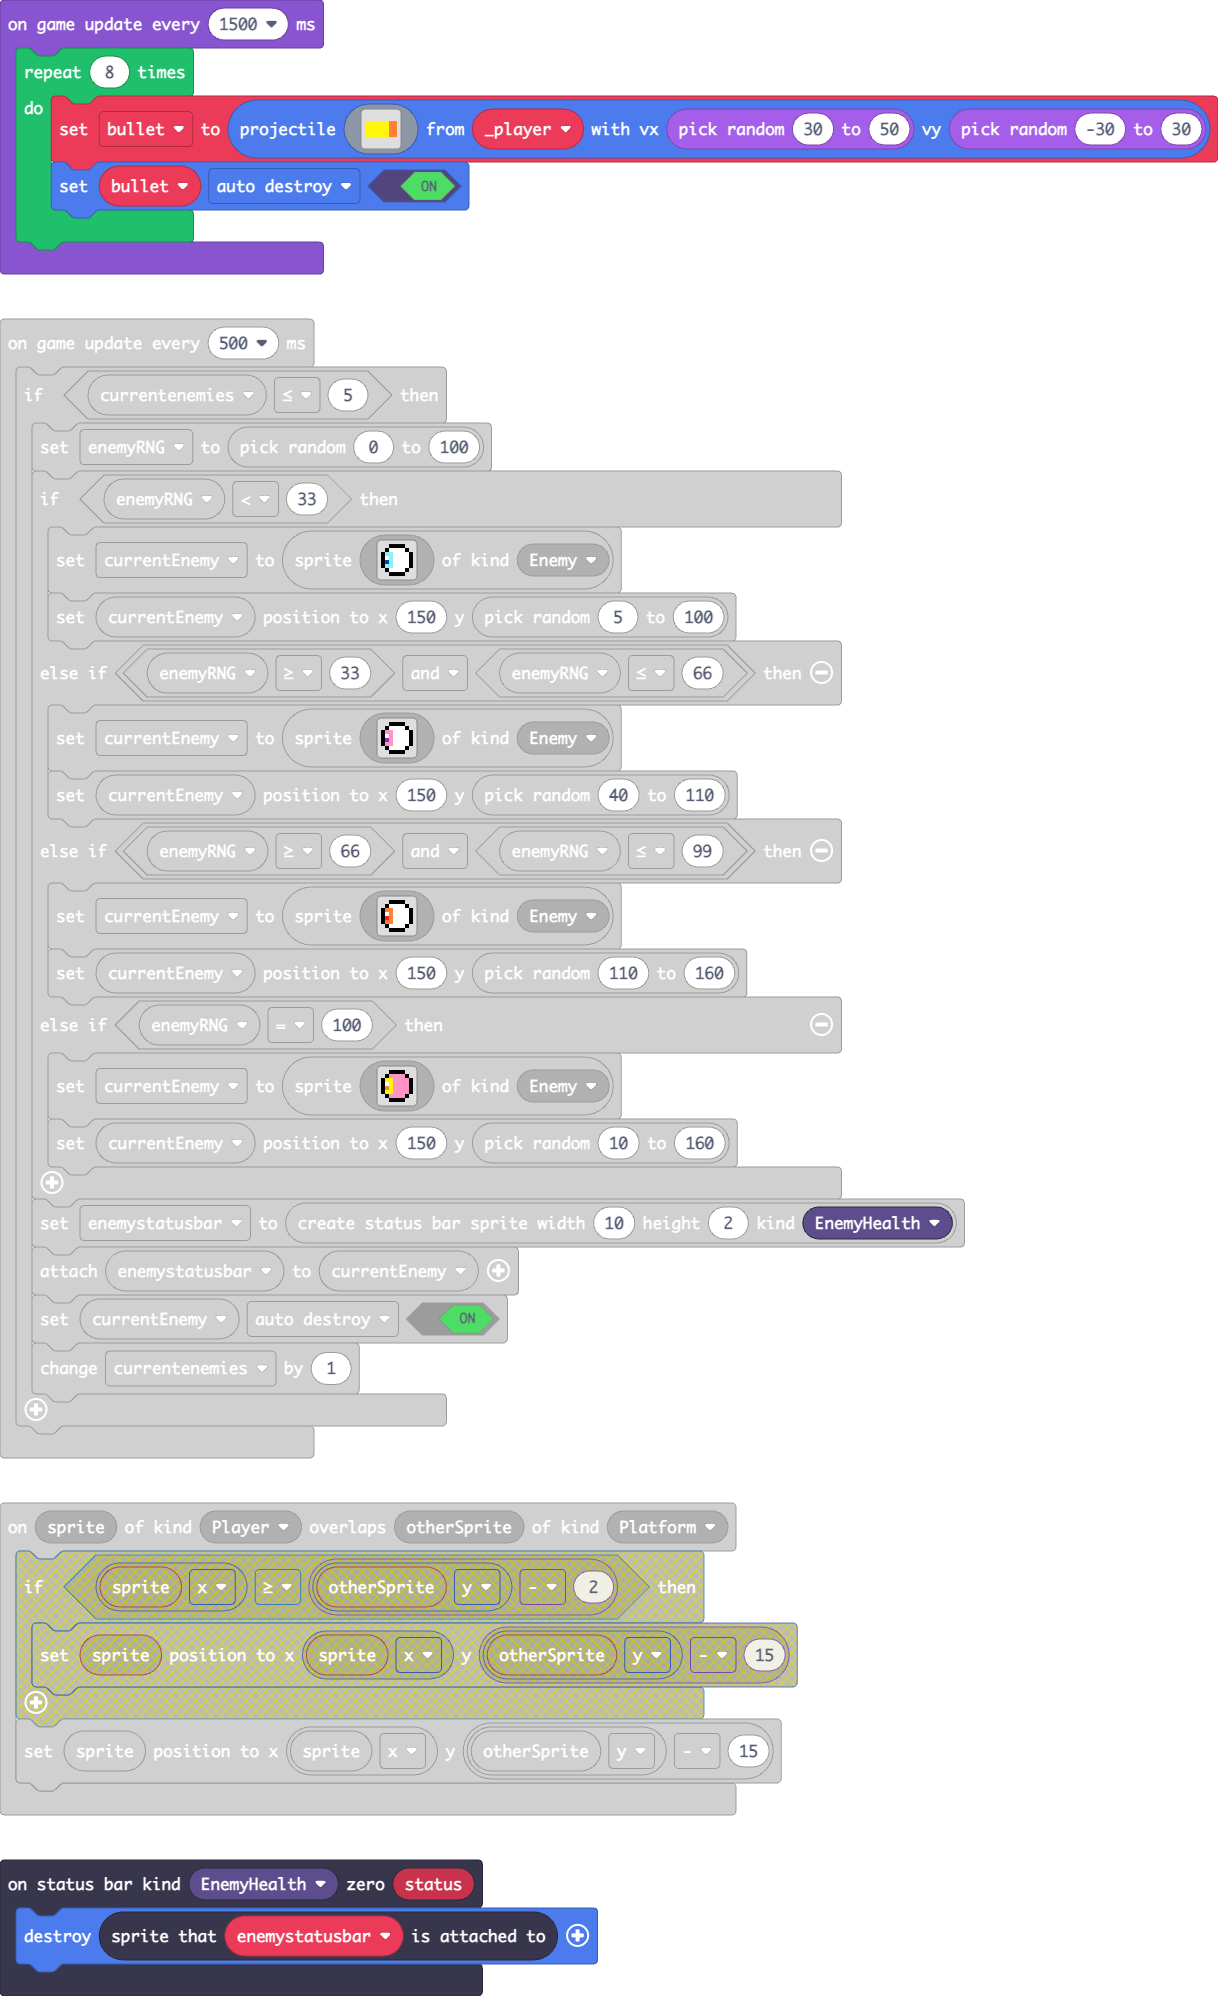
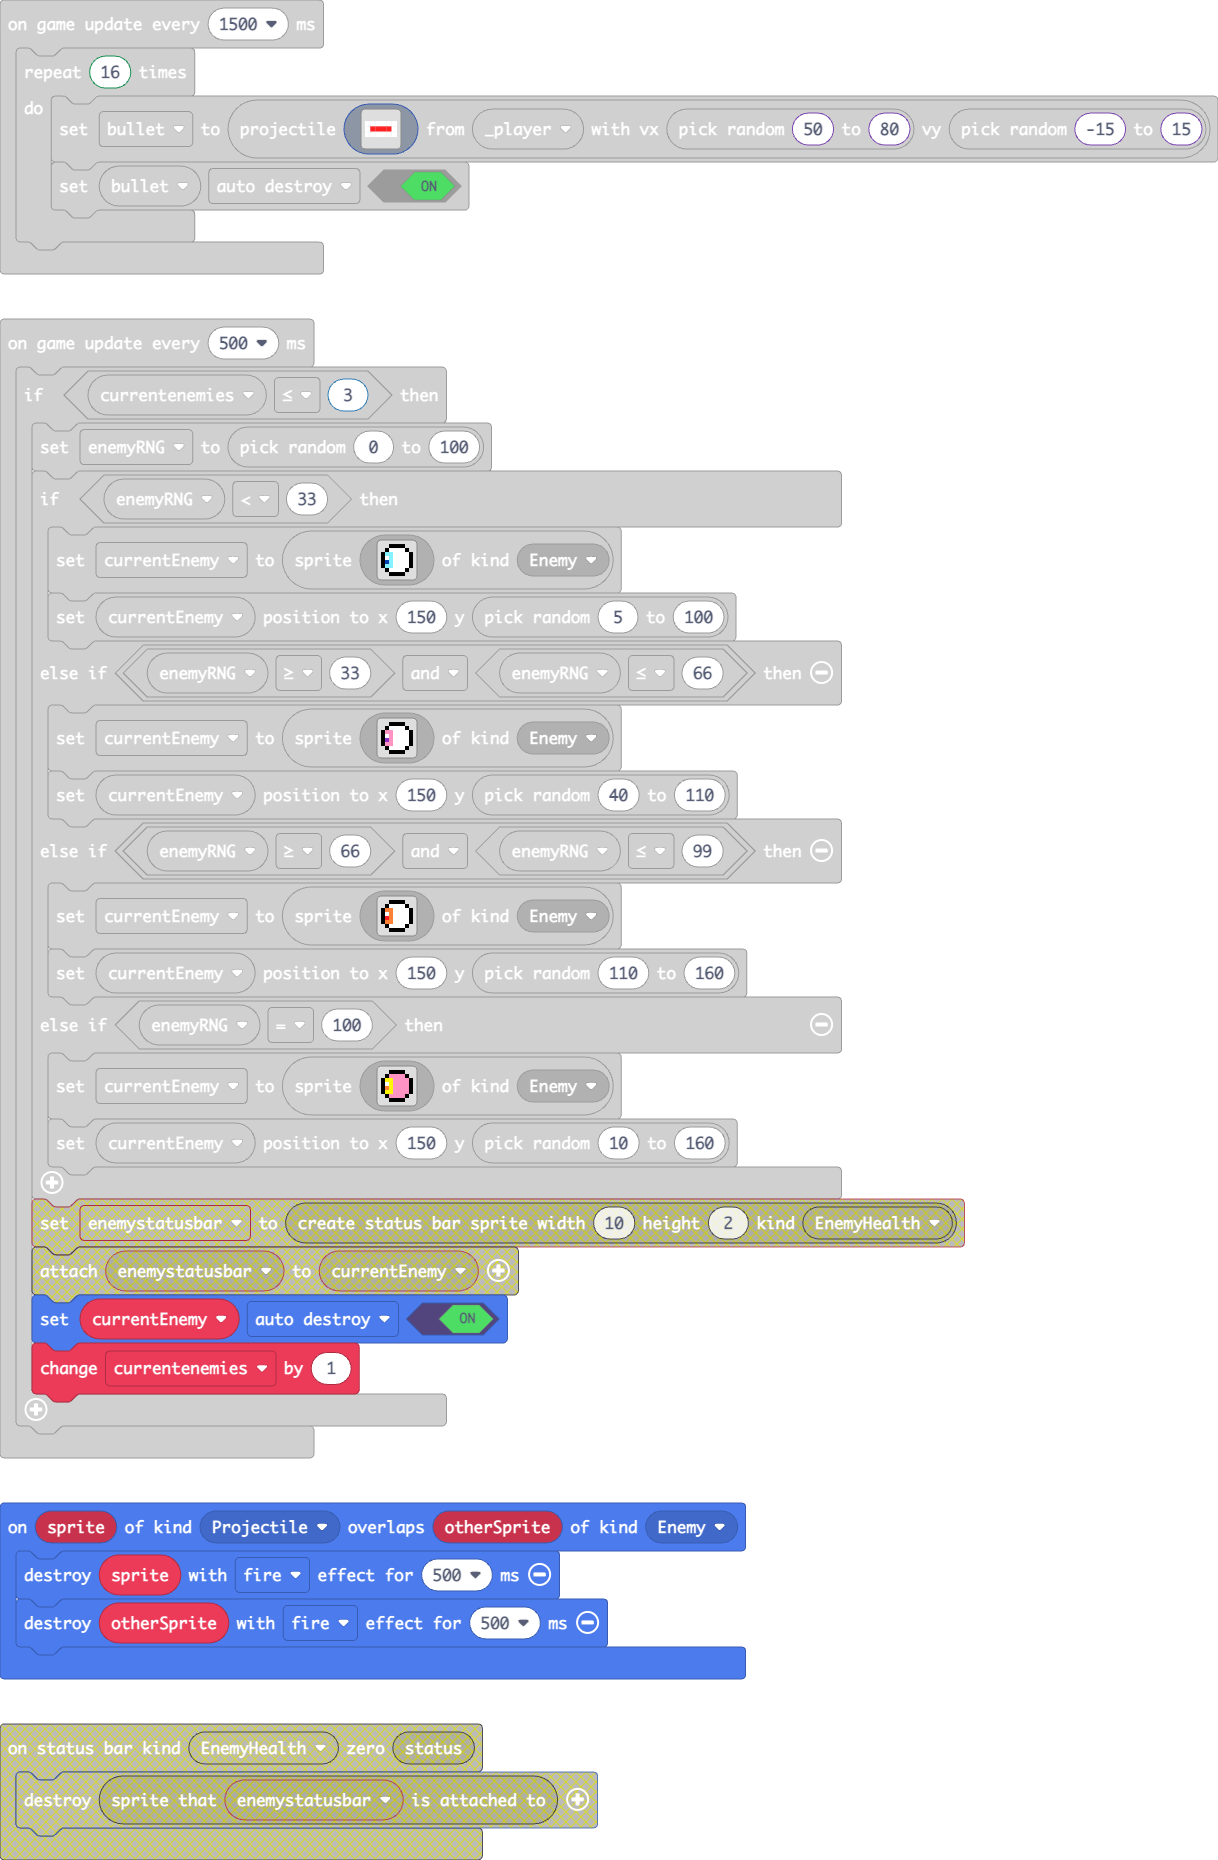
Add killing

diff --git a/main.ts b/main.ts
@@ -11,19 +11,19 @@ controller.A.onEvent(ControllerButtonEvent.Pressed, function () {
 sprites.onOverlap(SpriteKind.Player, SpriteKind.Platform, function (sprite, otherSprite) {
     sprite.setPosition(sprite.x, otherSprite.y - 15)
 })
-statusbars.onZero(StatusBarKind.EnemyHealth, function (status) {
-    sprites.destroy(enemystatusbar.spriteAttachedTo())
-})
 sprites.onOverlap(SpriteKind.Player, SpriteKind.Superplatform, function (sprite, otherSprite) {
     sprite.setPosition(otherSprite.x, otherSprite.y - 45)
     sprites.destroy(otherSprite)
+})
+sprites.onOverlap(SpriteKind.Projectile, SpriteKind.Enemy, function (sprite, otherSprite) {
+    sprites.destroy(sprite, effects.fire, 500)
+    sprites.destroy(otherSprite, effects.fire, 500)
 })
 let currentEnemy: Sprite = null
 let enemyRNG = 0
 let currentPlatform: Sprite = null
 let platformRNG = 0
 let bullet: Sprite = null
-let enemystatusbar: StatusBarSprite = null
 let cooldown = 0
 let _player: Sprite = null
 let currentenemies = 0
@@ -163,11 +163,12 @@ game.onUpdateInterval(2000, function () {
     cooldown = 0
 })
 game.onUpdateInterval(1500, function () {
-    for (let index = 0; index < 8; index++) {
+    for (let index = 0; index < 16; index++) {
         bullet = sprites.createProjectileFromSprite(img`
-            5 5 5 4 
-            5 5 5 4 
-            `, _player, randint(30, 50), randint(-30, 30))
+            1 1 1 1 1 1 
+            1 2 2 2 2 1 
+            1 1 1 1 1 1 
+            `, _player, randint(50, 80), randint(-15, 15))
         bullet.setFlag(SpriteFlag.AutoDestroy, true)
     }
 })
@@ -189,7 +190,7 @@ game.onUpdateInterval(500, function () {
     currentPlatform.setFlag(SpriteFlag.AutoDestroy, true)
 })
 game.onUpdateInterval(500, function () {
-    if (currentenemies <= 5) {
+    if (currentenemies <= 3) {
         enemyRNG = randint(0, 100)
         if (enemyRNG < 33) {
             currentEnemy = sprites.create(img`
@@ -240,8 +241,6 @@ game.onUpdateInterval(500, function () {
                 `, SpriteKind.Enemy)
             currentEnemy.setPosition(150, randint(10, 160))
         }
-        enemystatusbar = statusbars.create(10, 2, StatusBarKind.EnemyHealth)
-        enemystatusbar.attachToSprite(currentEnemy)
         currentEnemy.setFlag(SpriteFlag.AutoDestroy, true)
         currentenemies += 1
     }
